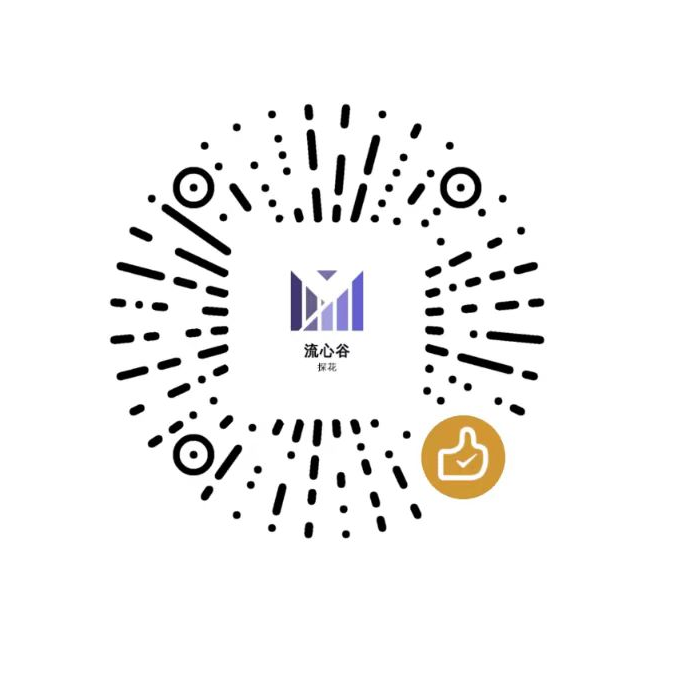
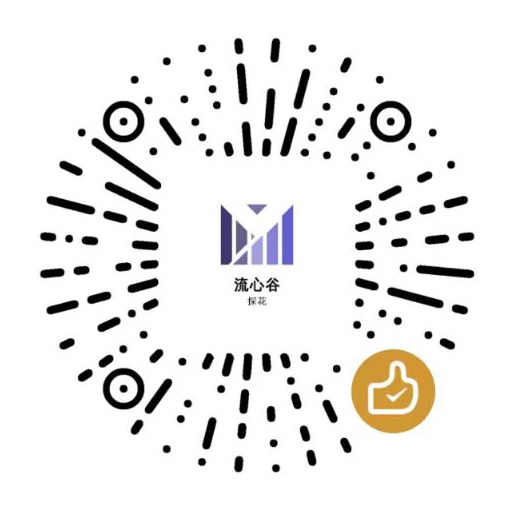
fix: 修改 readme 文件，更换 VX 二维码

diff --git a/README.md b/README.md
@@ -87,6 +87,10 @@
     复制 `conf.example.py` 并重命名为 `conf.py`。
     在 `conf.py` 中，您需要配置以下内容：
     -   `LOCAL_CHROME_PATH`: 本地 Chrome 浏览器的路径，比如 `C:\Program Files\Google\Chrome\Application\chrome.exe` 保存。
+    
+    **临时解决方案**
+
+    需要在根目录创建 `cookiesFile` 和 `videoFile` 两个文件夹，分别是 存储cookie文件 和 存储上传文件 的文件夹
 
 5.  **配置数据库**:
     如果 db/database.db 文件不存在，您可以运行以下命令来初始化数据库：
@@ -156,7 +160,7 @@
 <table>
     <td align="center">
         <a href="https://sap-doc.nasdaddy.com/">
-            <img src="media/mp.jpg" width="100px;" alt="NasDaddy公众号"/>
+            <img src="media/mp.jpg" width="200px" alt="NasDaddy公众号"/>
             <br />
             <sub><b>微信公众号</b></sub>
         </a>
@@ -167,7 +171,7 @@
     </td>
     <td align="center">
         <a href="https://sap-doc.nasdaddy.com/">
-            <img src="media/QR.png" width="100px;" alt="赞赏码/入群引导"/>
+            <img src="media/QR.png" width="200px" alt="赞赏码/入群引导"/>
             <br />
             <sub><b>交流群 (通过公众号获取)</b></sub>
         </a>
@@ -183,7 +187,7 @@
 <table>
     <td align="center">
         <a href="https://leedebug.github.io/">
-            <img src="media/edan-qrcode.png" width="100px;" alt="Edan Lee"/>
+            <img src="media/edan-qrcode.png" width="200px" alt="Edan Lee"/>
             <br />
             <sub><b>Edan Lee</b></sub>
         </a>
@@ -192,6 +196,8 @@
         <a href="https://leedebug.github.io/" title="Documentation">📖</a>
         <br />
         封装了 api 接口和 web 前端管理界面
+        <br />
+        （请注明来意：进群、学习、企业咨询等）
     </td>
 </table>
 
